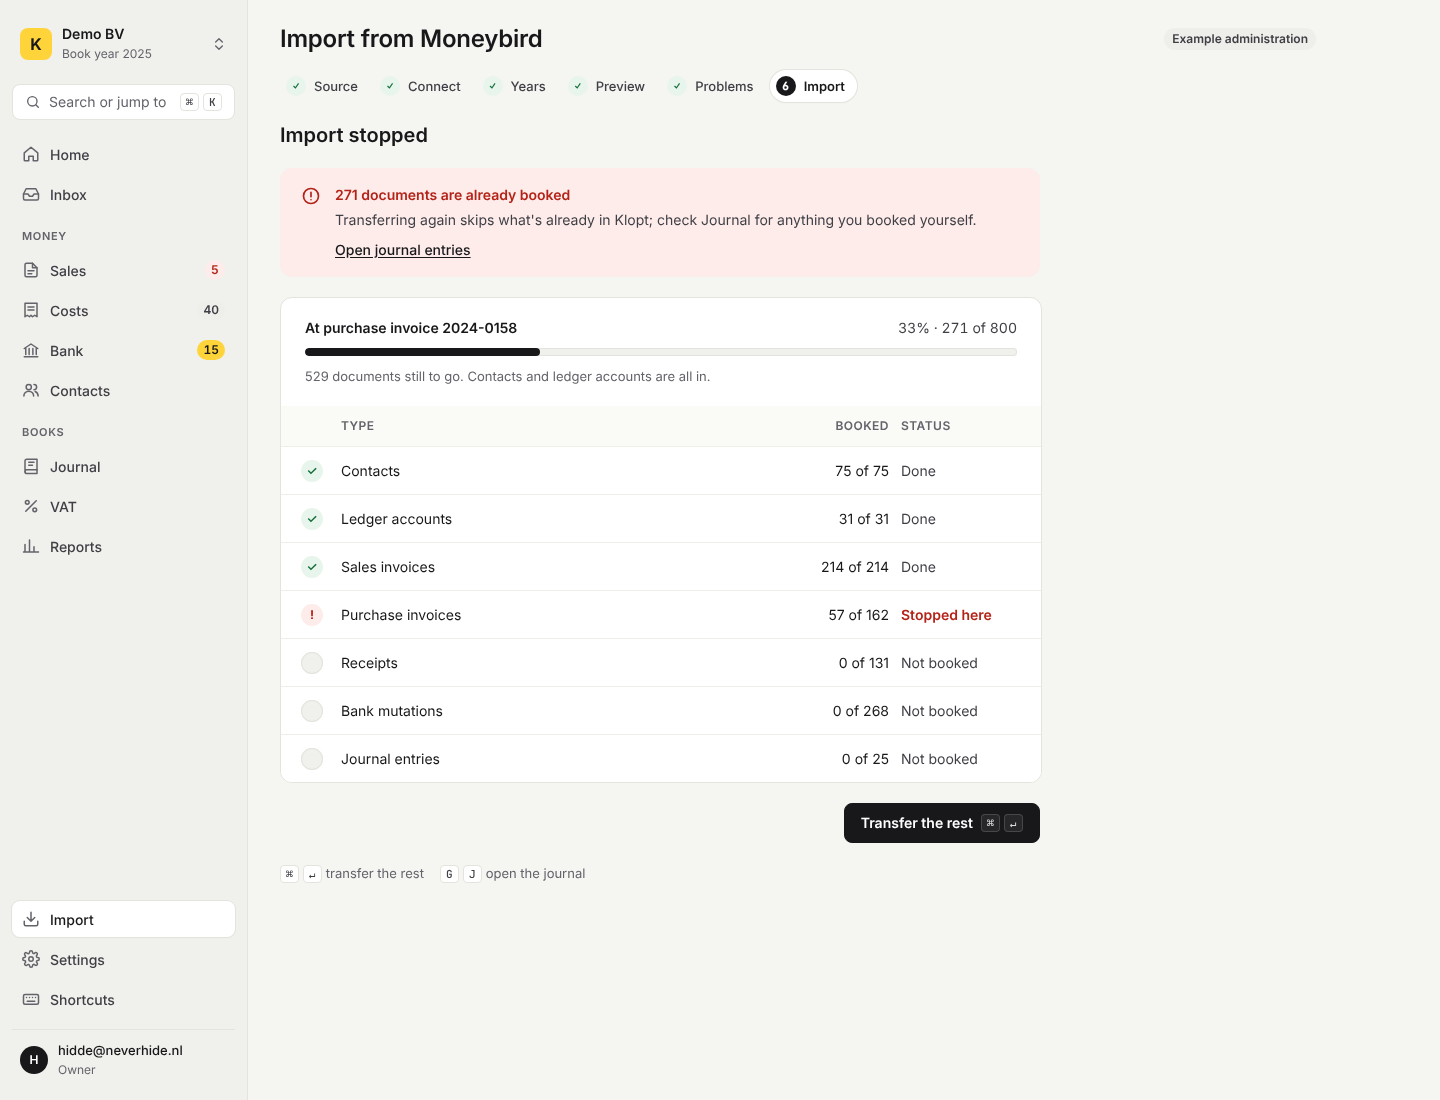
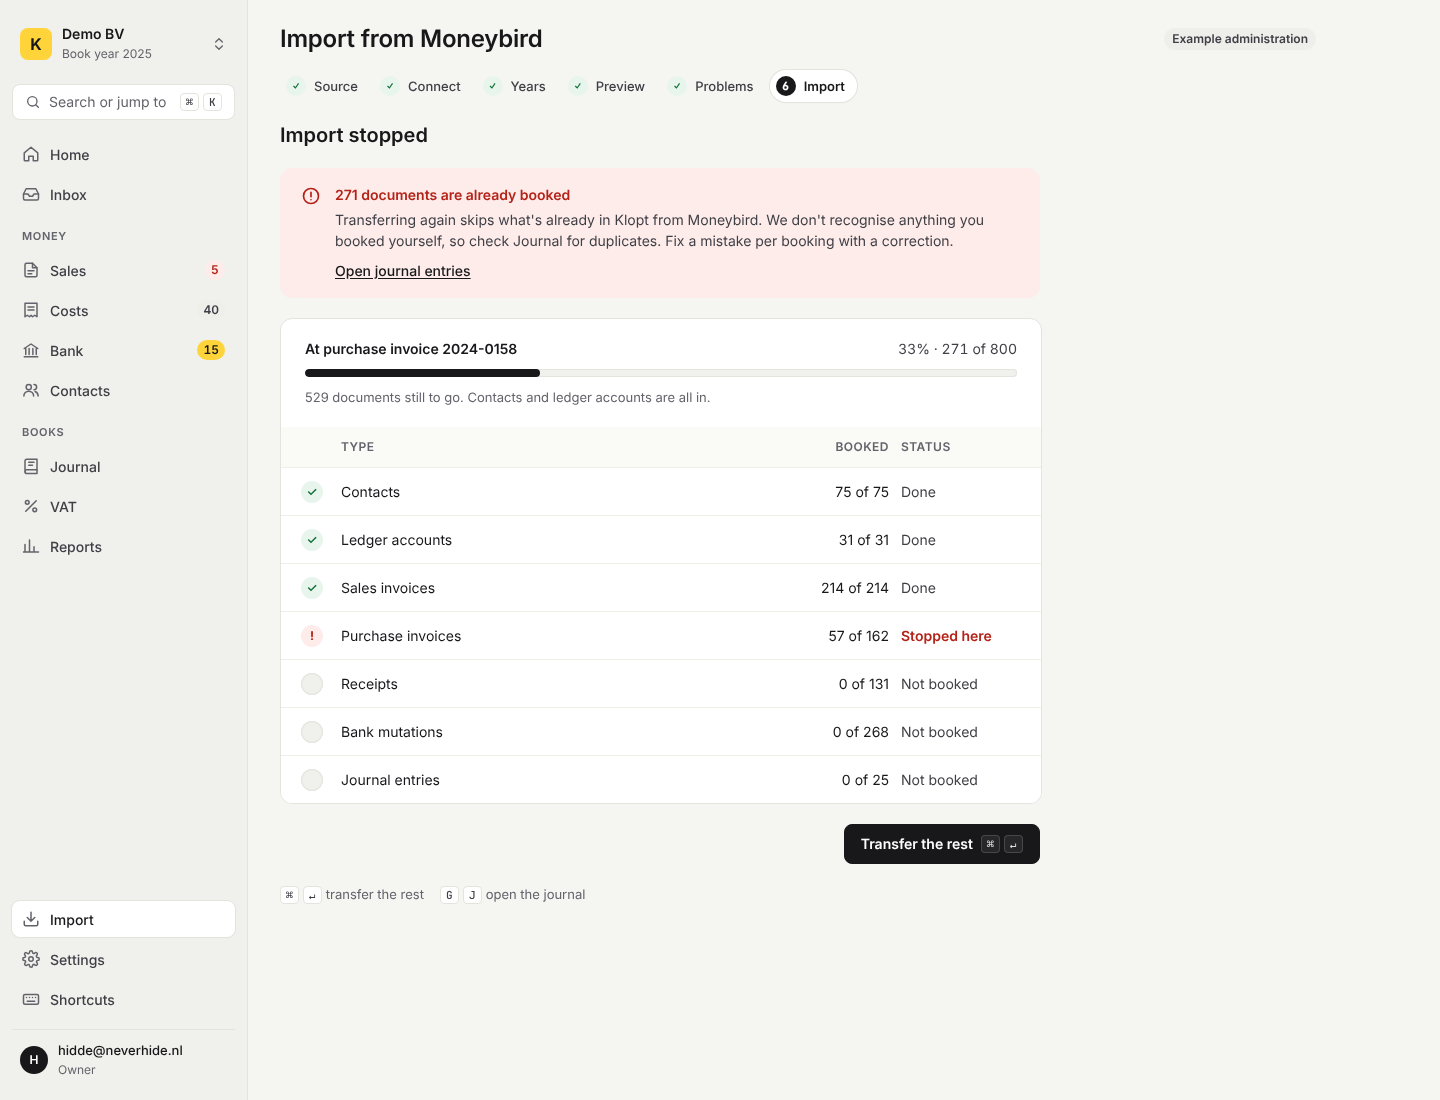
design: legal-verbatim partly-booked callout body, plural title forms in DERIVED.md

diff --git a/design/redesign-2026-10/screens/ImportRun.dc.html b/design/redesign-2026-10/screens/ImportRun.dc.html
@@ -161,7 +161,7 @@ class Component extends DCLogic {
     const partial = variant === 'stopped-partial';
     return { ...base, title: 'Import stopped', intro: '',
       stop: partial
-        ? { title: n(docs) + ' documents are already booked', text: 'Transferring again skips what\'s already in Klopt; check Journal for anything you booked yourself.', link: 'Open journal entries', href: 'Journal.dc.html' }
+        ? { title: docs === 1 ? '1 document is already booked' : n(docs) + ' documents are already booked', text: 'Transferring again skips what\'s already in Klopt from Moneybird. We don\'t recognise anything you booked yourself, so check Journal for duplicates. Fix a mistake per booking with a correction.', link: 'Open journal entries', href: 'Journal.dc.html' }
         : { title: 'We booked nothing', text: 'Moneybird didn\'t answer after 10:46 on 30-10-2026. You can try again as it is; if it fails again, check the problems first.', link: 'What we still need to fix', href: 'ImportFindings.dc.html' },
       p: { state: partial ? 'At purchase invoice 2024-0158' : 'Before the first booking', pct, line: pct + '% · ' + n(docs) + ' of 800', meta: partial ? n(800 - docs) + ' documents still to go. Contacts and ledger accounts are all in.' : 'Contacts come first; none of them are in yet.', foot: partial ? '' : dedup },
       f: partial

diff --git a/design/redesign-2026-10/DERIVED.md b/design/redesign-2026-10/DERIVED.md
@@ -43,7 +43,7 @@ The dark theme's `--line-control` (`#4a4a51` on `#1a1a1d`, about 2:1) has the sa
 - **Preview step.** It merges the app's "voorbeeld" counts with the "overzicht" sections "Already in Klopt" and "Not transferred", because v2 has no separate summary step. The per-type table (In Moneybird / Already in Klopt / Comes over) and all counts are invented. The not-transferred reasons are: year unticked, drafts, quotes. "Read again" gets the key `R`.
 - **Confirm as the first state of step 6.** v2's stepper has no Summary step, so "Ready to transfer?" with "Confirm transfer ⌘↵" opens step 6. The callout title "No undo for an import" is new. Its text is the app's legal copy.
 - **Progress per type.** The app shows one bar. The per-type rows, the "Started 30-10-2026 at 10:44 by …" line and "At purchase invoice 2024-0158" are new.
-- **Failure states.** Both Stopped boards keep the page heading "Import stopped" (Import gestopt), and their callout titles say something else, so no wording shows twice. The partly-booked callout drops the app's hedge ("Part of it may already be booked") for a count: "271 documents are already booked", with the single sentence "Transferring again skips what's already in Klopt; check Journal for anything you booked yourself." The duplicate-bookings legal note is left off that board because the sentence covers it. The reason "Moneybird didn't answer" and the buttons "Try again" and "Transfer the rest" are invented. The app only offers "What we still need to fix".
+- **Failure states.** Both Stopped boards keep the page heading "Import stopped" (Import gestopt), and their callout titles say something else, so no wording shows twice. The partly-booked callout drops the app's hedge ("Part of it may already be booked") for a count: "271 documents are already booked". That number is the worker's booked count in the run report (documents actually booked before the run stopped), not a count from the preview; the title has `_one` and `_other` forms. Its body is Legal's text, verbatim in EN and NL (see the copy table), and replaces the app's `failedPartialBody`. The duplicate-bookings note is left off that board because the body covers it. The reason "Moneybird didn't answer" and the buttons "Try again" and "Transfer the rest" are invented. The app only offers "What we still need to fix".
 - **Keymap: submit is ⌘↵ everywhere.** The new steps show `⌘ ↵` for Next and Confirm. In Hidde's ImportSource (step 2, Connect) and ImportFindings (step 5, Problems), the plain `↵` chip in the submit button was changed to the `⌘ ↵` chord, the same markup as on BillNew and Setup. Nothing else on his boards changed, and neither board had a `↵` in its hint row.
 - **Canvas placement.** Import steps 3, 4 and 6 sit right of ImportFindings (step 5), because Hidde's boards keep their positions. Moving ImportFindings to the right of ImportPreview would make the row read in order. The year-close boards are about 2.300px tall, so they start at x 6560 to clear the phone and dark row under the Settings row. Note widths for "Import" and "Settings" were widened to cover the new boards.
 
@@ -114,28 +114,29 @@ App strings are quoted from `apps/web/src/i18n/{en,nl}.ts`. Strings marked _new_
 
 ### Import, step 6 Import (Importeren)
 
-| English (board)                                                                                   | Nederlands                                                                                                           | Source                                                 |
-| ------------------------------------------------------------------------------------------------- | -------------------------------------------------------------------------------------------------------------------- | ------------------------------------------------------ |
-| Ready to transfer?                                                                                | Klaar om over te zetten?                                                                                             | wizard.overzicht.title                                 |
-| Check the summary. Then the import starts.                                                        | Controleer de samenvatting. Daarna begint de import.                                                                 | wizard.overzicht.intro                                 |
-| Import 800 documents?                                                                             | 800 documenten importeren?                                                                                           | wizard.overzicht.confirmTitleCount                     |
-| Transfer / Do not transfer                                                                        | Overzetten / Niet overzetten                                                                                         | wizard.overzicht.transfer, skip                        |
-| No undo for an import                                                                             | Een import draai je niet terug                                                                                       | new                                                    |
-| You cannot undo an import in one go. … together with your accountant.                             | Een import kun je niet in één keer ongedaan maken. … eventueel samen met je accountant.                              | wizard.overzicht.undoLegal                             |
-| Confirm transfer                                                                                  | Overzetten bevestigen                                                                                                | wizard.overzicht.confirm                               |
-| Transferring                                                                                      | Bezig met overzetten                                                                                                 | wizard.importeren.title                                |
-| You can close this screen; we continue. When you return, you see how far we are.                  | Je kunt dit scherm sluiten; we gaan door. Kom je terug, dan zie je hier hoe ver we zijn.                             | wizard.importeren.intro                                |
-| 62% · 497 of 800                                                                                  | 62% · 497 van 800                                                                                                    | wizard.importeren.progress                             |
-| Booking… / Queued… / Done                                                                         | Bezig met boeken… / In de wachtrij… / Klaar                                                                          | wizard.importeren.running, pending, wizard.status.done |
-| Importing…                                                                                        | Bezig met importeren…                                                                                                | wizard.status.importing                                |
-| Import stopped                                                                                    | Import gestopt                                                                                                       | wizard.importeren.stoppedTitle                         |
-| We booked nothing                                                                                 | We hebben niets geboekt                                                                                              | wizard.importeren.failed                               |
-| 271 documents are already booked                                                                  | 271 documenten zijn al geboekt                                                                                       | new (replaces wizard.importeren.failedPartial)         |
-| Transferring again skips what's already in Klopt; check Journal for anything you booked yourself. | Zet je opnieuw over, dan slaan we over wat al in Klopt staat; kijk bij Journaal of je zelf iets dubbel hebt geboekt. | new (replaces wizard.importeren.failedPartialBody)     |
-| What we still need to fix                                                                         | Wat we nog moeten oplossen                                                                                           | wizard.problemen.title                                 |
-| Open journal entries                                                                              | Naar journaalposten                                                                                                  | wizard.klaar.nextEntries                               |
-| Stopped here / Not booked                                                                         | Hier gestopt / Niet geboekt                                                                                          | new                                                    |
-| Try again / Transfer the rest                                                                     | Opnieuw proberen / De rest overzetten                                                                                | new                                                    |
+| English (board)                                                                                                                                                                                 | Nederlands                                                                                                                                                                                                         | Source                                                                                |
+| ----------------------------------------------------------------------------------------------------------------------------------------------------------------------------------------------- | ------------------------------------------------------------------------------------------------------------------------------------------------------------------------------------------------------------------ | ------------------------------------------------------------------------------------- |
+| Ready to transfer?                                                                                                                                                                              | Klaar om over te zetten?                                                                                                                                                                                           | wizard.overzicht.title                                                                |
+| Check the summary. Then the import starts.                                                                                                                                                      | Controleer de samenvatting. Daarna begint de import.                                                                                                                                                               | wizard.overzicht.intro                                                                |
+| Import 800 documents?                                                                                                                                                                           | 800 documenten importeren?                                                                                                                                                                                         | wizard.overzicht.confirmTitleCount                                                    |
+| Transfer / Do not transfer                                                                                                                                                                      | Overzetten / Niet overzetten                                                                                                                                                                                       | wizard.overzicht.transfer, skip                                                       |
+| No undo for an import                                                                                                                                                                           | Een import draai je niet terug                                                                                                                                                                                     | new                                                                                   |
+| You cannot undo an import in one go. … together with your accountant.                                                                                                                           | Een import kun je niet in één keer ongedaan maken. … eventueel samen met je accountant.                                                                                                                            | wizard.overzicht.undoLegal                                                            |
+| Confirm transfer                                                                                                                                                                                | Overzetten bevestigen                                                                                                                                                                                              | wizard.overzicht.confirm                                                              |
+| Transferring                                                                                                                                                                                    | Bezig met overzetten                                                                                                                                                                                               | wizard.importeren.title                                                               |
+| You can close this screen; we continue. When you return, you see how far we are.                                                                                                                | Je kunt dit scherm sluiten; we gaan door. Kom je terug, dan zie je hier hoe ver we zijn.                                                                                                                           | wizard.importeren.intro                                                               |
+| 62% · 497 of 800                                                                                                                                                                                | 62% · 497 van 800                                                                                                                                                                                                  | wizard.importeren.progress                                                            |
+| Booking… / Queued… / Done                                                                                                                                                                       | Bezig met boeken… / In de wachtrij… / Klaar                                                                                                                                                                        | wizard.importeren.running, pending, wizard.status.done                                |
+| Importing…                                                                                                                                                                                      | Bezig met importeren…                                                                                                                                                                                              | wizard.status.importing                                                               |
+| Import stopped                                                                                                                                                                                  | Import gestopt                                                                                                                                                                                                     | wizard.importeren.stoppedTitle                                                        |
+| We booked nothing                                                                                                                                                                               | We hebben niets geboekt                                                                                                                                                                                            | wizard.importeren.failed                                                              |
+| 1 document is already booked (`_one`)                                                                                                                                                           | 1 document staat al in Klopt                                                                                                                                                                                       | new, replaces wizard.importeren.failedPartial; count = booked count in the run report |
+| 271 documents are already booked (`_other`, `{count} documents are already booked`)                                                                                                             | 271 documenten staan al in Klopt (`{count} documenten staan al in Klopt`)                                                                                                                                          | new, replaces wizard.importeren.failedPartial; count = booked count in the run report |
+| Transferring again skips what's already in Klopt from Moneybird. We don't recognise anything you booked yourself, so check Journal for duplicates. Fix a mistake per booking with a correction. | Opnieuw overzetten slaat over wat al uit Moneybird in Klopt staat. Wat je zelf hebt geboekt, herkennen we niet: controleer Journaalposten op dubbele boekingen. Een fout herstel je per boeking met een correctie. | **Legal verbatim** (EN and NL); replaces wizard.importeren.failedPartialBody          |
+| What we still need to fix                                                                                                                                                                       | Wat we nog moeten oplossen                                                                                                                                                                                         | wizard.problemen.title                                                                |
+| Open journal entries                                                                                                                                                                            | Naar journaalposten                                                                                                                                                                                                | wizard.klaar.nextEntries                                                              |
+| Stopped here / Not booked                                                                                                                                                                       | Hier gestopt / Niet geboekt                                                                                                                                                                                        | new                                                                                   |
+| Try again / Transfer the rest                                                                                                                                                                   | Opnieuw proberen / De rest overzetten                                                                                                                                                                              | new                                                                                   |
 
 ## Rendering the screenshots
 
